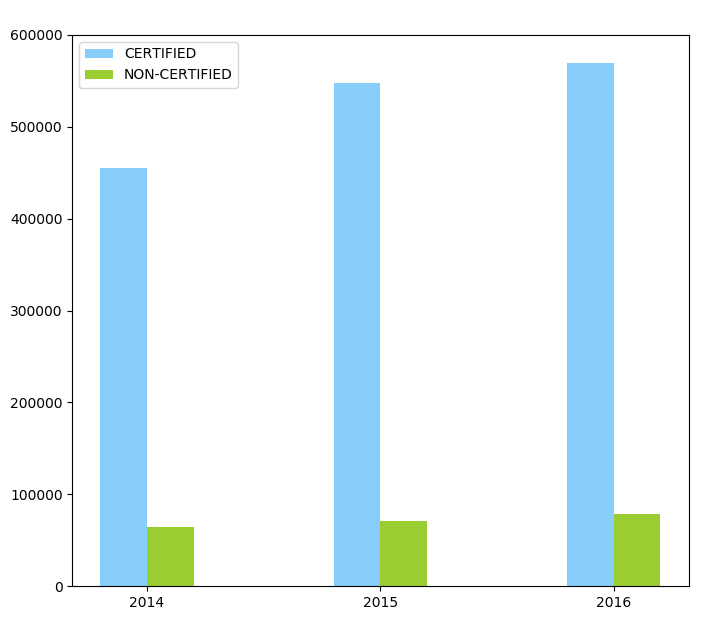
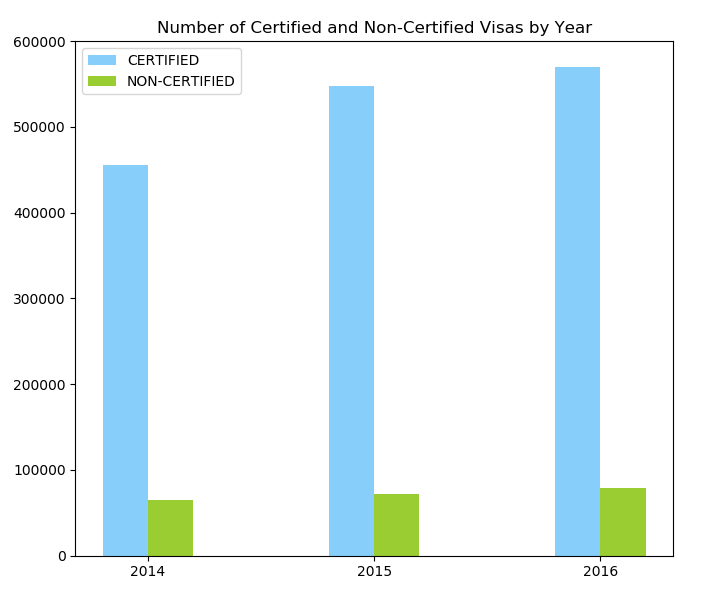
add plot

Changed region(s): [[0.0, 0.0304, 0.966, 0.973], [0.779, 0.0912, 0.8725, 0.1216]]

diff --git a/src/additional_data_visualization.py b/src/additional_data_visualization.py
@@ -57,7 +57,7 @@ def pieplot(name, flag):
 # pieplot('H1B_FY_2016.csv',2)
 
 
-def getdata(name):
+def ifcerbars(name):
     x = [2014, 2015, 2016]
     num_cer = []
     num_noncer = []
@@ -74,6 +74,7 @@ def getdata(name):
     fig, ax = plt.subplots()
     ax.bar(ind, num_cer, width=0.2, color='lightskyblue')
     ax.bar(ind + 0.2, num_noncer, width=0.2, color='yellowgreen')
+    ax.set_title('Number of Certified and Non-Certified Visas by Year')
     ax.legend(('CERTIFIED', 'NON-CERTIFIED'))
     ax.set_xticks(ind + 0.1)
     ax.set_ylim((0, 600000))
@@ -82,4 +83,12 @@ def getdata(name):
     plt.show()
 
 
-getdata('H1B_FY_')
+ifcerbars('H1B_FY_')
+
+
+def certifiedtype(name):
+    f = pd.read_csv(name +'.csv', sep=';', index_col=0, header=0)
+    print(f.columns)
+    print(f.groupby('VISA_CLASS').count().sort_values('STATUS', ascending=False)['STATUS'])
+
+# certifiedtype('H1B_FY_2014')
